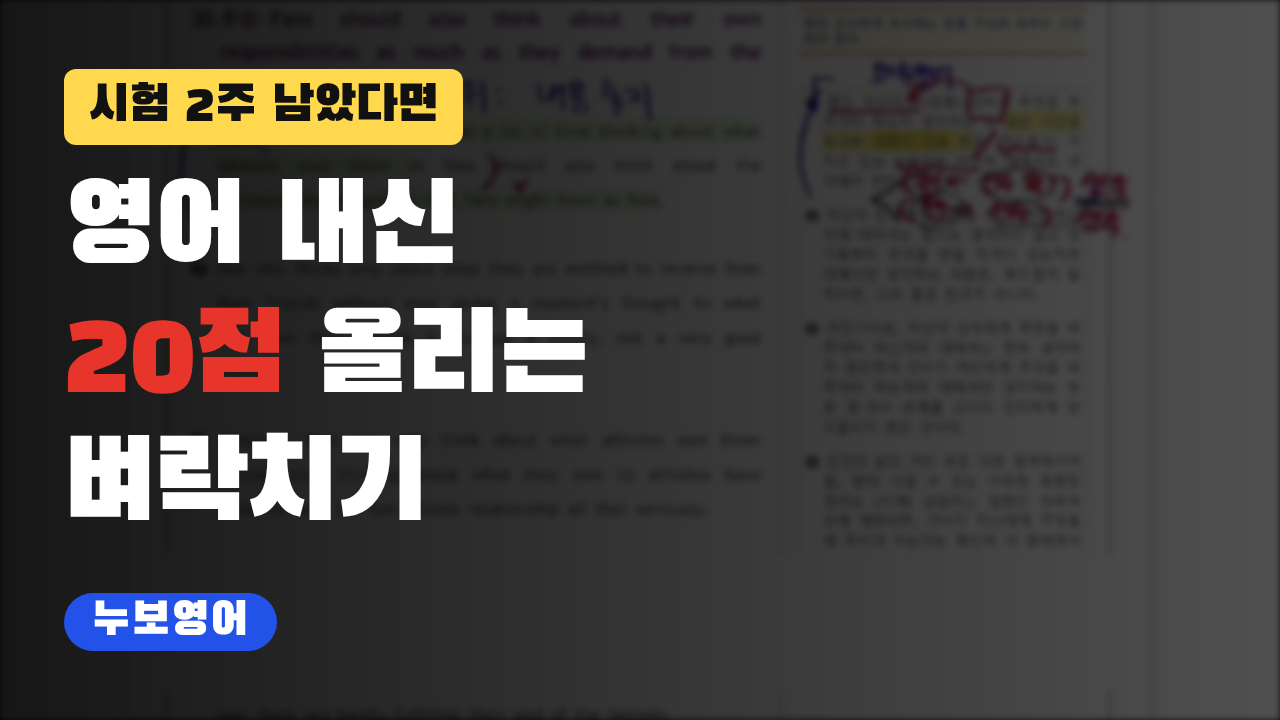
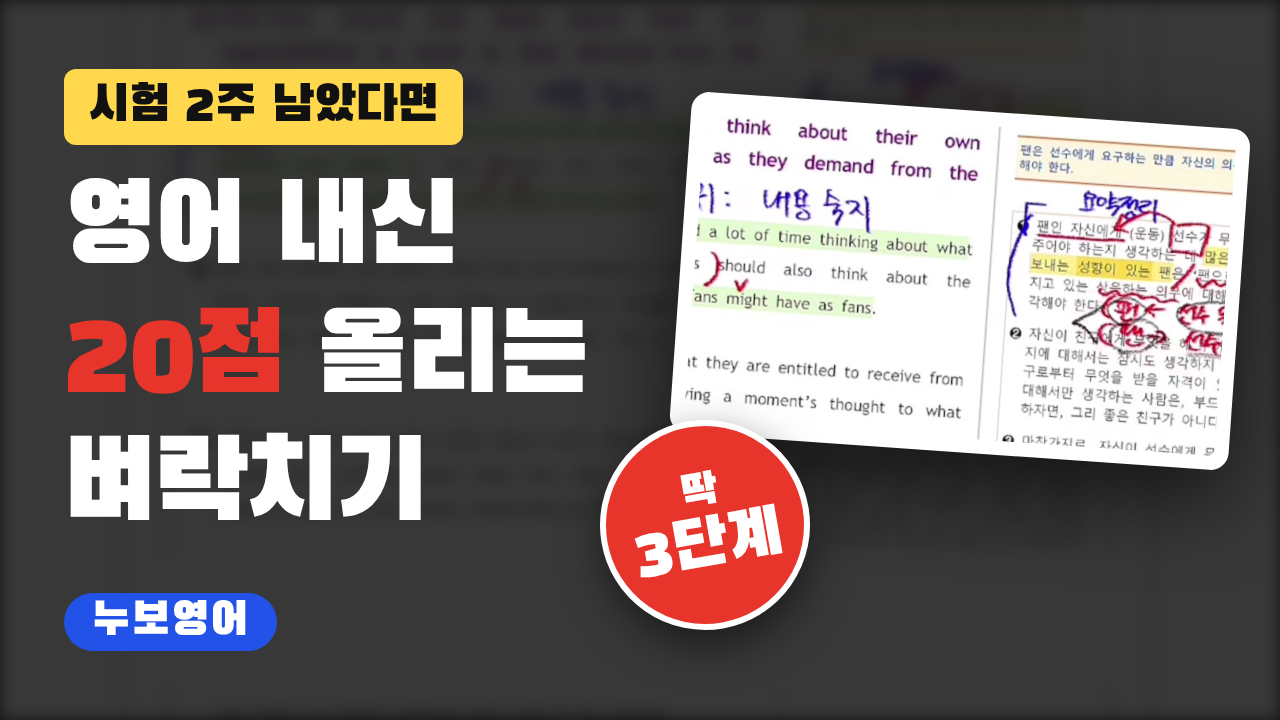
rp9 thumbnail: full design without photo slot
Claude-Session: https://claude.ai/code/session_01Rym27oCy7NFVPU9s4bdxz4

diff --git a/motion/src/tip/Thumb.tsx b/motion/src/tip/Thumb.tsx
@@ -5,12 +5,21 @@ import '../fonts';
 
 /** YouTube thumbnail 1280x720. Text on the left ~58%; right side left empty for the teacher's photo. */
 const BLUE = '#2352E8', RED = '#E8352B', YEL = '#FFD84D';
-export type ThumbProps = {v: 'A' | 'B' | 'C'; bg?: string};
+export type ThumbProps = {v: 'A' | 'B' | 'C' | 'D'; bg?: string};
 const acc = (t: string, c: string) => t.split(/(\{[^}]+\})/).filter(Boolean).map((p, i) => p.startsWith('{') ? <span key={i} style={{color: c}}>{p.slice(1, -1)}</span> : <React.Fragment key={i}>{p}</React.Fragment>);
 
 export const Thumb: React.FC<ThumbProps> = ({v, bg = 'cover_rp9_bg.jpg'}) => (
   <AbsoluteFill style={{background: '#111', fontFamily: DISPLAY.heavy, overflow: 'hidden'}}>
-    {v !== 'C' ? <Img src={staticFile(bg)} style={{position: 'absolute', inset: 0, width: '100%', height: '100%', objectFit: 'cover', filter: `blur(${v === 'A' ? 6 : 3}px) brightness(${v === 'A' ? 0.28 : 0.35})`}} /> : null}
+    {v === 'D' ? (<>
+      <Img src={staticFile(bg)} style={{position: 'absolute', inset: 0, width: '100%', height: '100%', objectFit: 'cover', filter: 'blur(8px) brightness(0.22)'}} />
+      <div style={{position: 'absolute', right: 40, top: 110, width: 560, transform: 'rotate(4deg)', background: '#fff', padding: 14, borderRadius: 18, boxShadow: '0 30px 80px rgba(0,0,0,0.6)'}}>
+        <Img src={staticFile('thumb_rp9_doc.jpg')} style={{width: '100%', display: 'block', borderRadius: 8}} />
+      </div>
+      <div style={{position: 'absolute', right: 470, top: 420, width: 210, height: 210, borderRadius: '50%', background: RED, color: '#fff', transform: 'rotate(-10deg)',
+        display: 'flex', flexDirection: 'column', alignItems: 'center', justifyContent: 'center', fontSize: 66, lineHeight: 1, boxShadow: '0 16px 40px rgba(0,0,0,0.5)', border: '6px solid #fff'}}>
+        <div style={{fontSize: 44}}>딱</div><div>3단계</div></div>
+    </>) : null}
+    {v !== 'C' && v !== 'D' ? <Img src={staticFile(bg)} style={{position: 'absolute', inset: 0, width: '100%', height: '100%', objectFit: 'cover', filter: `blur(${v === 'A' ? 6 : 3}px) brightness(${v === 'A' ? 0.28 : 0.35})`}} /> : null}
     {v === 'C' ? <div style={{position: 'absolute', inset: 0, background: 'linear-gradient(120deg, #0E1A3B 0%, #111 70%)'}} /> : null}
     {v === 'B' ? <div style={{position: 'absolute', inset: 0, background: 'linear-gradient(90deg, rgba(0,0,0,0.75) 0%, rgba(0,0,0,0.35) 60%, rgba(0,0,0,0.1) 100%)'}} /> : null}
     <div style={{position: 'absolute', left: 64, top: 0, bottom: 0, width: 700, display: 'flex', flexDirection: 'column', justifyContent: 'center', letterSpacing: -2}}>
@@ -19,7 +28,7 @@ export const Thumb: React.FC<ThumbProps> = ({v, bg = 'cover_rp9_bg.jpg'}) => (
           <div>내신 2주 전</div><div style={{color: RED}}>벼락치기로</div><div>{acc('20점 올리는 법', RED)}</div>
         </div>
       </>) : null}
-      {v === 'B' ? (<>
+      {v === 'B' || v === 'D' ? (<>
         <div style={{display: 'inline-block', alignSelf: 'flex-start', background: YEL, color: '#111', fontSize: 50, padding: '6px 24px', borderRadius: 12, marginBottom: 22, letterSpacing: 0}}>시험 2주 남았다면</div>
         <div style={{color: '#fff', fontSize: 112, lineHeight: 1.15}}><div>영어 내신</div><div>{acc('{20점} 올리는', RED)}</div><div>벼락치기</div></div>
       </>) : null}

diff --git a/motion/src/Root.tsx b/motion/src/Root.tsx
@@ -139,7 +139,7 @@ export const RemotionRoot: React.FC = () => (
       defaultProps={{video: 'rp8bfx.mp4', look: 'C', title: '순서 {추상 구체}로\n1분컷 하는 법', titleSize: 104, marks: rp8.marks as Mark[], lines: rp8.lines, cards: rp8.cards, notes: [], cams: rp8.cams, chips: rp8.chips}} />
     <Composition id="Rp8CoverDark" component={Cover} fps={30} width={1080} height={1920} durationInFrames={1}
       defaultProps={{dark: true, lines: ['순서 문제', '{내용 비슷할 때}', '1분컷 하는 법'], uniform: true, bg: 'cover_rp7_bg.jpg'}} />
-    {(['A', 'B', 'C'] as const).map((k) => <Composition key={k} id={`Rp9Thumb${k}`} component={Thumb} fps={30} width={1280} height={720} durationInFrames={1} defaultProps={{v: k}} />)}
+    {(['A', 'B', 'C', 'D'] as const).map((k) => <Composition key={k} id={`Rp9Thumb${k}`} component={Thumb} fps={30} width={1280} height={720} durationInFrames={1} defaultProps={{v: k}} />)}
     <Composition id="Rp9Long" component={Rp9Long} fps={30} width={1920} height={1080} durationInFrames={Math.floor(rp9.dur * 30)}
       defaultProps={{video: 'rp9fx.mp4', lines: rp9.lines, states: rp9.states, cards: rp9.cards, chapters: rp9.chapters, patches: rp9.patches}} />
     {(['A', 'B', 'C'] as const).map((k) => (
